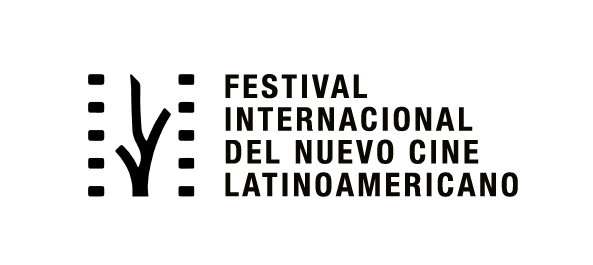
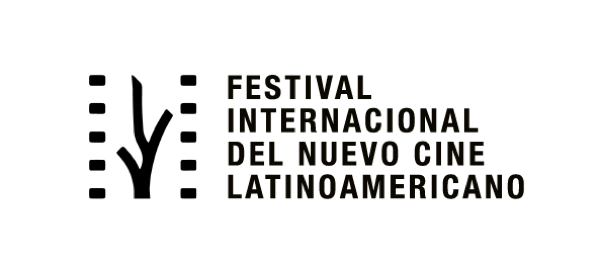
Festival selections become a readable slideshow
The marks were being served at 720px and squeezed into 190px tiles, so a
poster like the Mar del Plata flyer could not be read at all.

- Re-export every mark from the full-resolution originals in IMAWA-ASSETS
- Add the 40th Mar del Plata banner, which was hidden and never restored
- Tiles carry a name and open a slideshow: arrows, keyboard, swipe, counter
- Flex instead of grid for both the tile and the stage, since a grid item
  sizes its own track and a portrait poster overflowed its box

The slideshow is mounted on <body>, not inside .lb, because .lb__box
scrolls and would clip a fixed child.

Claude-Session: https://claude.ai/code/session_01AHtcQUuQ7UDGNkuYMAu2d2

diff --git a/index.html b/index.html
@@ -9,6 +9,12 @@
 <link rel="preconnect" href="https://fonts.gstatic.com" crossorigin>
 <link href="https://fonts.googleapis.com/css2?family=Plus+Jakarta+Sans:wght@300;400;500;600&display=swap" rel="stylesheet">
 <link rel="stylesheet" href="css/style.css">
+<link rel="icon" href="/favicon.ico" sizes="any">
+<link rel="icon" type="image/png" sizes="16x16" href="/assets/favicon/favicon-16.png">
+<link rel="icon" type="image/png" sizes="32x32" href="/assets/favicon/favicon-32.png">
+<link rel="apple-touch-icon" href="/assets/favicon/apple-touch-icon.png">
+<link rel="manifest" href="/site.webmanifest">
+<meta name="theme-color" content="#0A0A0A">
 </head>
 <body>
 <a class="skip" href="#main">Skip to content</a>
@@ -232,40 +238,75 @@
       <button class="fest__trigger" type="button" data-gallery="festGallery"
               aria-label="View festival selections and awards">
         <span class="fest__label">Festival selections &amp; awards</span>
-        <span class="fest__count">9</span>
+        <span class="fest__count">10</span>
       </button>
     </div>
 
     <!-- Lifted into the lightbox when the strip above is clicked. -->
+    <!-- Lifted into the lightbox when the strip above is clicked. Each tile is a
+         button: clicking one opens the slideshow so the posters can be read. -->
     <div id="festGallery" hidden>
       <div class="fest__grid">
-        <figure class="fest__tile">
-          <img src="media/festivals/mar-del-plata.jpg" alt="Mar del Plata" loading="lazy">
-        </figure>
-        <figure class="fest__tile">
-          <img src="media/festivals/promax-awards.jpg" alt="Promax Awards" loading="lazy">
-        </figure>
-        <figure class="fest__tile">
-          <img src="media/festivals/promax-awards-2.jpg" alt="Promax Awards" loading="lazy">
-        </figure>
-        <figure class="fest__tile">
-          <img src="media/festivals/poke.jpg" alt="Poke" loading="lazy">
-        </figure>
-        <figure class="fest__tile">
-          <img src="media/festivals/bafici.jpg" alt="Bafici" loading="lazy">
-        </figure>
-        <figure class="fest__tile">
-          <img src="media/festivals/martin-fierro-latino.png" alt="Martín Fierro Latino" loading="lazy">
-        </figure>
-        <figure class="fest__tile">
-          <img src="media/festivals/moscow.jpg" alt="Moscow International Film Festival" loading="lazy">
-        </figure>
-        <figure class="fest__tile">
-          <img src="media/festivals/cuba.png" alt="Festival de Cuba" loading="lazy">
-        </figure>
-        <figure class="fest__tile">
-          <img src="media/festivals/mexico.jpg" alt="Festival de México" loading="lazy">
-        </figure>
+        <button class="fest__tile" type="button"
+                data-full="media/festivals/mar-del-plata-40.jpg"
+                data-cap="40º Festival Internacional de Cine de Mar del Plata">
+          <span class="fest__shot"><img src="media/festivals/mar-del-plata-40.jpg" alt="40º Festival Internacional de Cine de Mar del Plata"></span>
+          <span class="fest__name">40º Mar del Plata</span>
+        </button>
+        <button class="fest__tile" type="button"
+                data-full="media/festivals/mar-del-plata.jpg"
+                data-cap="40º Mar del Plata — Lo mejor del festival">
+          <span class="fest__shot"><img src="media/festivals/mar-del-plata.jpg" alt="40º Mar del Plata — Lo mejor del festival"></span>
+          <span class="fest__name">Mar del Plata — flyer</span>
+        </button>
+        <button class="fest__tile" type="button"
+                data-full="media/festivals/bafici.jpg"
+                data-cap="BAFICI 21 — Buenos Aires Festival Internacional de Cine Independiente">
+          <span class="fest__shot"><img src="media/festivals/bafici.jpg" alt="BAFICI 21 — Buenos Aires Festival Internacional de Cine Independiente"></span>
+          <span class="fest__name">BAFICI 21</span>
+        </button>
+        <button class="fest__tile" type="button"
+                data-full="media/festivals/martin-fierro-latino.jpg"
+                data-cap="Martín Fierro Latino — Miami 2025">
+          <span class="fest__shot"><img src="media/festivals/martin-fierro-latino.jpg" alt="Martín Fierro Latino — Miami 2025"></span>
+          <span class="fest__name">Martín Fierro Latino</span>
+        </button>
+        <button class="fest__tile" type="button"
+                data-full="media/festivals/promax-awards.jpg"
+                data-cap="Promax Awards Latin America">
+          <span class="fest__shot"><img src="media/festivals/promax-awards.jpg" alt="Promax Awards Latin America"></span>
+          <span class="fest__name">Promax Awards</span>
+        </button>
+        <button class="fest__tile" type="button"
+                data-full="media/festivals/promax-awards-2.jpg"
+                data-cap="Promax Awards Latin America — Torneos">
+          <span class="fest__shot"><img src="media/festivals/promax-awards-2.jpg" alt="Promax Awards Latin America — Torneos"></span>
+          <span class="fest__name">Promax Awards — Torneos</span>
+        </button>
+        <button class="fest__tile" type="button"
+                data-full="media/festivals/poke.jpg"
+                data-cap="Poke — documentary, official selections">
+          <span class="fest__shot"><img src="media/festivals/poke.jpg" alt="Poke — documentary, official selections"></span>
+          <span class="fest__name">Poke</span>
+        </button>
+        <button class="fest__tile" type="button"
+                data-full="media/festivals/moscow.jpg"
+                data-cap="Moscow International Film Festival">
+          <span class="fest__shot"><img src="media/festivals/moscow.jpg" alt="Moscow International Film Festival"></span>
+          <span class="fest__name">Moscow IFF</span>
+        </button>
+        <button class="fest__tile" type="button"
+                data-full="media/festivals/cuba.png"
+                data-cap="Festival Internacional del Nuevo Cine Latinoamericano — La Habana">
+          <span class="fest__shot"><img src="media/festivals/cuba.png" alt="Festival Internacional del Nuevo Cine Latinoamericano — La Habana"></span>
+          <span class="fest__name">Nuevo Cine Latinoamericano</span>
+        </button>
+        <button class="fest__tile" type="button"
+                data-full="media/festivals/mexico.jpg"
+                data-cap="MICMXIFF — Festival Internacional de Cine, México">
+          <span class="fest__shot"><img src="media/festivals/mexico.jpg" alt="MICMXIFF — Festival Internacional de Cine, México"></span>
+          <span class="fest__name">MICMXIFF</span>
+        </button>
       </div>
     </div>
   </section>

diff --git a/css/style.css b/css/style.css
@@ -1021,3 +1021,88 @@ body{background:var(--black)}
   .lb.is-gallery .lb__box{max-height:calc(100svh - var(--lb-chrome))}
 }
 .lb.is-gallery .lb__box > div{position:static;padding-right:4px}
+
+/* ======================================================================
+   POST-DELIVERY 32 — the festival gallery reads, and enlarges
+   ====================================================================== */
+
+/* The marks were being served at 720px and then squeezed into 190px tiles,
+   so a poster like the Mar del Plata flyer was unreadable. The files are now
+   the full originals, the tiles are bigger and carry a name, and every tile
+   is a button that opens a slideshow. Block 31 styled .fest__tile as the
+   paper box itself; the box is now .fest__shot, so the old paper, padding,
+   centring and 4/3 ratio have to be unset here. */
+.fest__grid{gap:clamp(14px,1.9vw,22px);
+  grid-template-columns:repeat(auto-fill,minmax(min(100%,250px),1fr))}
+.fest__tile{appearance:none;-webkit-appearance:none;border:0;border-radius:0;
+  background:none;padding:0;margin:0;color:var(--paper-45);font:inherit;
+  text-align:left;cursor:zoom-in;display:grid;gap:10px;place-items:stretch;
+  aspect-ratio:auto}
+/* Flex, not grid: as a grid item the image sized its own track, so a portrait
+   poster grew its tile and shouldered the rest of the row out of place.
+   min-height:0 lets max-height resolve against the 4/3 box instead. */
+.fest__shot{display:flex;align-items:center;justify-content:center;
+  aspect-ratio:4/3;overflow:hidden;border-radius:3px;
+  background:var(--paper);padding:clamp(14px,1.8vw,22px);
+  transition:transform .35s var(--ease)}
+.fest__shot img{flex:0 1 auto;min-width:0;min-height:0;
+  max-width:100%;max-height:100%;width:auto;height:auto;object-fit:contain}
+.fest__name{font-size:12px;letter-spacing:.04em;line-height:1.35;
+  transition:color .3s var(--ease)}
+.fest__tile:hover .fest__shot,.fest__tile:focus-visible .fest__shot{transform:translateY(-3px)}
+.fest__tile:hover .fest__name,.fest__tile:focus-visible .fest__name{color:var(--paper)}
+
+/* The slideshow is mounted on <body>, not inside .lb, so neither the
+   lightbox's own overflow:auto nor any transformed ancestor can clip it.
+   .lb sits at z-index 300, so this goes above it. */
+.fv{position:fixed;inset:0;z-index:400;display:none;background:rgba(8,8,8,.97);
+  grid-template-rows:auto minmax(0,1fr) auto;gap:clamp(10px,2vh,18px);
+  padding:clamp(12px,2vw,22px)}
+.fv.open{display:grid}
+.fv__head{display:flex;align-items:center;justify-content:space-between;gap:16px}
+.fv__count{font-size:11px;letter-spacing:.12em;text-transform:uppercase;
+  color:var(--paper-45)}
+.fv__close{appearance:none;-webkit-appearance:none;background:none;padding:0;
+  width:44px;height:44px;display:grid;place-items:center;cursor:pointer;
+  border:1px solid var(--line-2);border-radius:999px;color:var(--paper-45);
+  transition:color .3s var(--ease),border-color .3s var(--ease)}
+.fv__close:hover,.fv__close:focus-visible{color:var(--paper);border-color:var(--paper)}
+.fv__close i{position:relative;display:block;width:16px;height:16px}
+.fv__close i::before,.fv__close i::after{content:"";position:absolute;top:50%;left:0;
+  width:100%;height:1px;background:currentColor}
+.fv__close i::before{transform:rotate(45deg)}
+.fv__close i::after{transform:rotate(-45deg)}
+
+.fv__stage{position:relative;display:flex;align-items:center;
+  justify-content:center;min-height:0;overflow:hidden}
+.fv__img{flex:0 1 auto;min-width:0;min-height:0;
+  max-width:100%;max-height:100%;width:auto;height:auto;object-fit:contain;
+  background:var(--paper);border-radius:3px;padding:clamp(10px,1.6vw,24px)}
+.fv__nav{position:absolute;top:50%;translate:0 -50%;appearance:none;
+  -webkit-appearance:none;background:rgba(8,8,8,.6);padding:0;cursor:pointer;
+  width:52px;height:52px;display:grid;place-items:center;
+  border:1px solid var(--line-2);border-radius:999px;color:var(--paper-45);
+  transition:color .3s var(--ease),border-color .3s var(--ease),background .3s var(--ease)}
+.fv__nav:hover,.fv__nav:focus-visible{color:var(--paper);border-color:var(--paper);
+  background:rgba(8,8,8,.85)}
+.fv__nav--prev{left:0}
+.fv__nav--next{right:0}
+.fv__nav i{display:block;width:12px;height:12px;border-top:1px solid currentColor;
+  border-right:1px solid currentColor}
+.fv__nav--prev i{rotate:-135deg;margin-left:4px}
+.fv__nav--next i{rotate:45deg;margin-right:4px}
+
+.fv__foot{text-align:center;font-size:13px;line-height:1.4;color:var(--paper-45);
+  padding:0 clamp(48px,8vw,80px)}
+
+@media (max-width:700px){
+  .fest__grid{grid-template-columns:repeat(auto-fill,minmax(min(100%,150px),1fr))}
+  .fv__nav{width:44px;height:44px}
+  .fv__nav--prev{left:-4px}
+  .fv__nav--next{right:-4px}
+  .fv__img{padding:10px}
+}
+@media (prefers-reduced-motion:reduce){
+  .fest__shot{transition:none}
+  .fest__tile:hover .fest__shot,.fest__tile:focus-visible .fest__shot{transform:none}
+}

diff --git a/js/main.js b/js/main.js
@@ -548,4 +548,111 @@
     var r = el.getBoundingClientRect();
     if (r.top < innerHeight) show(el);
   }); }, 1200);
+
+  /* ---------- festival gallery: a tile enlarges into a slideshow ----------
+     The gallery markup is injected into the lightbox slot, so the tiles do
+     not exist until it opens and the clicks have to be delegated. The viewer
+     itself is mounted on <body> rather than inside .lb, because .lb__box
+     scrolls (overflow-y:auto) and a fixed child of a scrolling or transformed
+     ancestor gets clipped. .lb is z-index 300, .fv is 400, so while the
+     slideshow is up it covers the lightbox and its close button - which is
+     why closing the lightbox out from under it is not reachable. */
+  var fv = null, fvImg, fvCap, fvCount, fvTiles = [], fvAt = 0, fvOpener = null;
+
+  function fvBuild() {
+    if (fv) return;
+    fv = document.createElement('div');
+    fv.className = 'fv';
+    fv.setAttribute('role', 'dialog');
+    fv.setAttribute('aria-modal', 'true');
+    fv.setAttribute('aria-label', 'Festival selections and awards');
+    fv.innerHTML =
+      '<div class="fv__head">' +
+        '<p class="fv__count"></p>' +
+        '<button class="fv__close" type="button" aria-label="Close">' +
+          '<i aria-hidden="true"></i></button>' +
+      '</div>' +
+      '<div class="fv__stage">' +
+        '<button class="fv__nav fv__nav--prev" type="button" aria-label="Previous">' +
+          '<i aria-hidden="true"></i></button>' +
+        '<img class="fv__img" alt="">' +
+        '<button class="fv__nav fv__nav--next" type="button" aria-label="Next">' +
+          '<i aria-hidden="true"></i></button>' +
+      '</div>' +
+      '<p class="fv__foot"></p>';
+    document.body.appendChild(fv);
+    fvImg = fv.querySelector('.fv__img');
+    fvCap = fv.querySelector('.fv__foot');
+    fvCount = fv.querySelector('.fv__count');
+    fv.querySelector('.fv__close').addEventListener('click', fvClose);
+    fv.querySelector('.fv__nav--prev').addEventListener('click', function () { fvGo(-1); });
+    fv.querySelector('.fv__nav--next').addEventListener('click', function () { fvGo(1); });
+    fv.addEventListener('click', function (e) {
+      if (e.target === fv || e.target === fv.querySelector('.fv__stage')) fvClose();
+    });
+    // swipe, since there is no hover target to find on a phone
+    var x0 = null;
+    var stage = fv.querySelector('.fv__stage');
+    stage.addEventListener('touchstart', function (e) {
+      x0 = e.changedTouches[0].clientX;
+    }, { passive: true });
+    stage.addEventListener('touchend', function (e) {
+      if (x0 === null) return;
+      var dx = e.changedTouches[0].clientX - x0;
+      x0 = null;
+      if (Math.abs(dx) > 45) fvGo(dx < 0 ? 1 : -1);
+    }, { passive: true });
+  }
+
+  function fvShow(i) {
+    var n = fvTiles.length;
+    if (!n) return;
+    fvAt = (i + n) % n;
+    var t = fvTiles[fvAt];
+    fvImg.src = t.dataset.full;
+    fvImg.alt = t.dataset.cap || '';
+    fvCap.textContent = t.dataset.cap || '';
+    fvCount.textContent = (fvAt + 1) + ' / ' + n;
+    // warm both neighbours so stepping through does not flash white
+    [fvTiles[(fvAt + 1) % n], fvTiles[(fvAt - 1 + n) % n]].forEach(function (x) {
+      if (x) { var p = new Image(); p.src = x.dataset.full; }
+    });
+  }
+  function fvGo(d) { fvShow(fvAt + d); }
+  function fvIsOpen() { return !!fv && fv.classList.contains('open'); }
+
+  function fvOpen(tile) {
+    fvBuild();
+    // scope to the grid that was clicked: the source #festGallery is still in
+    // the document (hidden), so querying the whole page counts every tile twice
+    var grid = tile.closest('.fest__grid') || document;
+    fvTiles = [].slice.call(grid.querySelectorAll('.fest__tile[data-full]'));
+    var i = fvTiles.indexOf(tile);
+    if (i < 0) return;
+    fvOpener = tile;
+    fvShow(i);
+    fv.classList.add('open');
+    fv.querySelector('.fv__close').focus();
+  }
+  function fvClose() {
+    if (!fvIsOpen()) return;
+    fv.classList.remove('open');
+    fvImg.removeAttribute('src');
+    if (fvOpener && document.contains(fvOpener)) fvOpener.focus();
+    fvOpener = null;
+  }
+
+  document.addEventListener('click', function (e) {
+    var t = e.target.closest('.fest__tile[data-full]');
+    if (t) { e.preventDefault(); fvOpen(t); }
+  });
+  // capture phase: Escape must close the slideshow without also closing the
+  // lightbox underneath, and that handler is a bubble-phase listener.
+  document.addEventListener('keydown', function (e) {
+    if (!fvIsOpen()) return;
+    if (e.key === 'Escape') { e.stopPropagation(); fvClose(); }
+    else if (e.key === 'ArrowRight') { e.preventDefault(); fvGo(1); }
+    else if (e.key === 'ArrowLeft') { e.preventDefault(); fvGo(-1); }
+  }, true);
+
 })();
